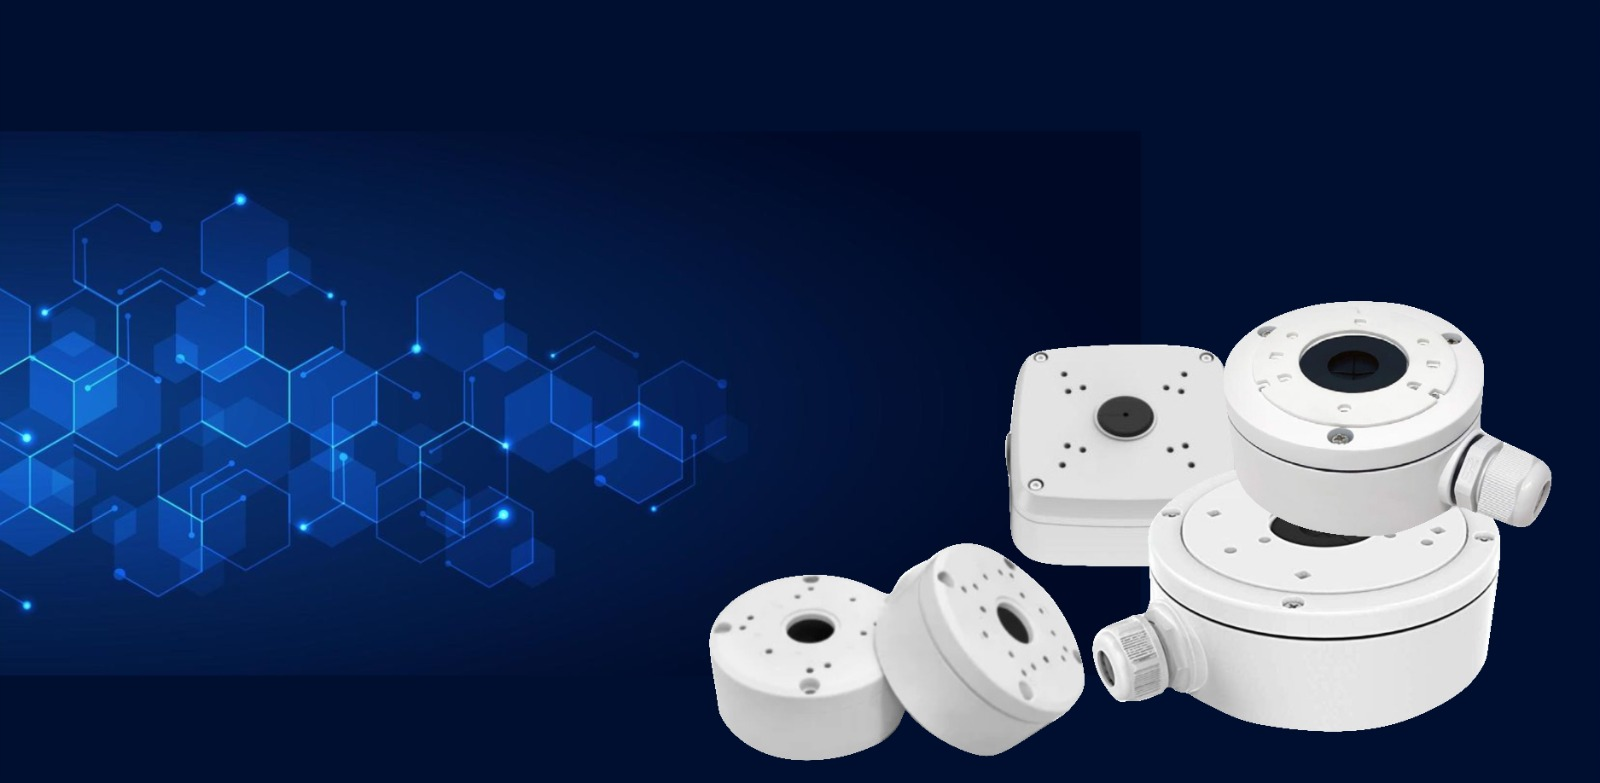
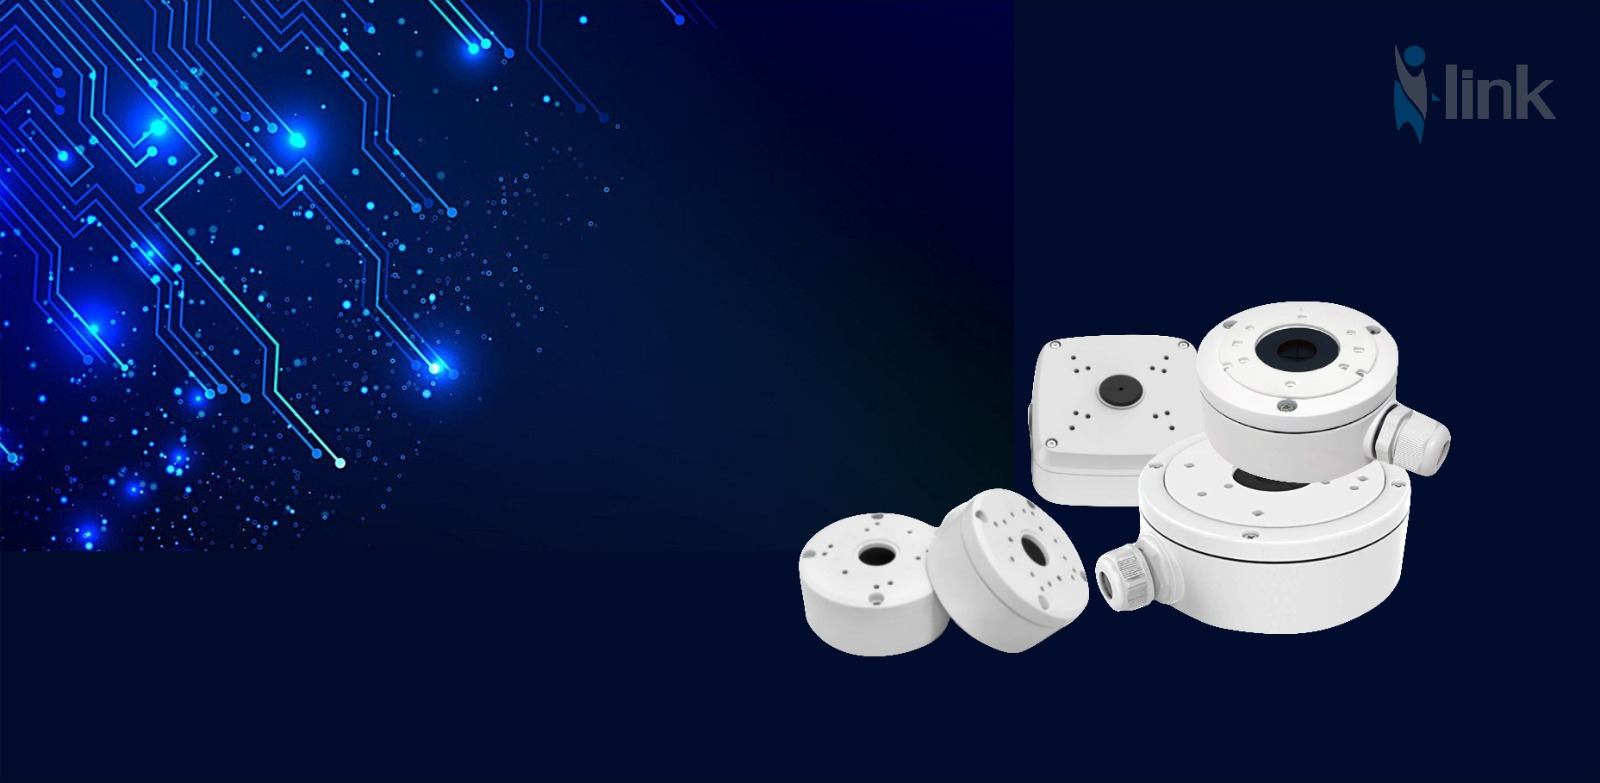
Home section adding images

diff --git a/src/app/component/Silider.tsx b/src/app/component/Silider.tsx
@@ -1,8 +1,11 @@
 "use client";
+
 import { useState } from "react";
 import { motion } from "framer-motion";
 
-// Define the type for our image data
+/* ================================
+   Types
+================================ */
 interface ImageItem {
   id: number;
   title: string;
@@ -13,7 +16,9 @@ interface ImageItem {
   large?: boolean;
 }
 
-// Single Image Card Component
+/* ================================
+   Image Card Component
+================================ */
 const ImageCard = ({ item }: { item: ImageItem }) => {
   const [isHovered, setIsHovered] = useState(false);
 
@@ -30,61 +35,60 @@ const ImageCard = ({ item }: { item: ImageItem }) => {
           onMouseEnter={() => setIsHovered(true)}
           onMouseLeave={() => setIsHovered(false)}
         >
-          {/* Main Image */}
-          <div className="relative w-full h-full">
-            <motion.img
-              src={item.imageUrl}
-              alt={item.title}
-              className="w-full h-full object-cover"
-              whileHover={{ scale: 1.05 }}
-              transition={{ duration: 0.7 }}
-            />
+          {/* Image */}
+          <motion.img
+            src={item.imageUrl}
+            alt={item.title}
+            className="w-full h-full object-cover"
+            whileHover={{ scale: 1.05 }}
+            transition={{ duration: 0.7 }}
+          />
 
-            {/* Gradient Overlay */}
-            <div className="absolute inset-0 bg-gradient-to-t from-black/70 via-black/10 to-transparent" />
+          {/* Gradient Overlay */}
+          <div className="absolute inset-0 bg-gradient-to-t from-black/70 via-black/10 to-transparent" />
 
-            {/* Content Overlay */}
-            <div className="absolute bottom-0 left-0 right-0 p-4 md:p-5 lg:p-6 text-white">
-              <div className="mb-1">
-                <span className="text-[10px] md:text-xs font-medium tracking-wider uppercase text-white/85">
-                  {item.tag}
-                </span>
-              </div>
+          {/* Content */}
+          <div className="absolute bottom-0 left-0 right-0 p-4 md:p-5 lg:p-6 text-white">
+            <span className="text-[10px] md:text-xs font-medium tracking-wider uppercase text-white/85">
+              {item.tag}
+            </span>
 
-              <h3 className="text-lg md:text-xl lg:text-2xl font-semibold mb-1 leading-snug max-w-xl">
-                {item.title}
-              </h3>
+            <h3 className="text-lg md:text-xl lg:text-2xl font-semibold mt-1 mb-1">
+              {item.title}
+            </h3>
 
-              <p className="text-white/85 text-xs md:text-sm font-light max-w-md mb-2">
-                {item.subtitle}
-              </p>
+            <p className="text-white/85 text-xs md:text-sm font-light mb-2 max-w-md">
+              {item.subtitle}
+            </p>
 
-              {/* Learn More */}
-              <motion.div
-                initial={{ opacity: 0, y: 10 }}
-                animate={{ opacity: isHovered ? 1 : 0, y: isHovered ? 0 : 10 }}
-                transition={{ duration: 0.3 }}
-              >
-                <span className="inline-flex items-center gap-1.5 text-white font-medium text-xs md:text-sm">
-                  Learn More
-                  <motion.svg
-                    className="w-3.5 h-3.5 md:w-4 md:h-4"
-                    fill="none"
-                    stroke="currentColor"
-                    viewBox="0 0 24 24"
-                    animate={{ x: isHovered ? 5 : 0 }}
-                    transition={{ duration: 0.3 }}
-                  >
-                    <path
-                      strokeLinecap="round"
-                      strokeLinejoin="round"
-                      strokeWidth={2}
-                      d="M17 8l4 4m0 0l-4 4m4-4H3"
-                    />
-                  </motion.svg>
-                </span>
-              </motion.div>
-            </div>
+            {/* Learn More */}
+            <motion.div
+              initial={{ opacity: 0, y: 10 }}
+              animate={{
+                opacity: isHovered ? 1 : 0,
+                y: isHovered ? 0 : 10,
+              }}
+              transition={{ duration: 0.3 }}
+            >
+              <span className="inline-flex items-center gap-1.5 text-white font-medium text-xs md:text-sm">
+                Learn More
+                <motion.svg
+                  className="w-4 h-4"
+                  fill="none"
+                  stroke="currentColor"
+                  viewBox="0 0 24 24"
+                  animate={{ x: isHovered ? 5 : 0 }}
+                  transition={{ duration: 0.3 }}
+                >
+                  <path
+                    strokeLinecap="round"
+                    strokeLinejoin="round"
+                    strokeWidth={2}
+                    d="M17 8l4 4m0 0l-4 4m4-4H3"
+                  />
+                </motion.svg>
+              </span>
+            </motion.div>
           </div>
 
           {/* Hover Overlay */}
@@ -100,54 +104,55 @@ const ImageCard = ({ item }: { item: ImageItem }) => {
   );
 };
 
-// Main Page Component
+/* ================================
+   Main Slider Component
+================================ */
 export default function Slider() {
-  const imageData: ImageItem[] = [
-    {
+  const imageData: Record<string, ImageItem> = {
+    cctvInstallation: {
       id: 1,
       title: "CCTV Installation",
       subtitle:
         "Professional CCTV system installation for residential and commercial properties with high-definition cameras and advanced monitoring.",
       tag: "SECURITY",
-      imageUrl:
-        "https://images.unsplash.com/photo-1558618666-fcd25c85cd64?w=500&h=250&fit=crop&auto=format",
+      imageUrl: "/sa.jpeg",
       link: "/elv-solution/cctv-installation",
       large: true,
     },
-    {
+
+    cctvMaintenance: {
       id: 2,
       title: "CCTV Maintenance",
       subtitle:
         "Regular maintenance and support services to keep your CCTV systems running at peak performance with timely inspections and repairs.",
       tag: "MAINTENANCE",
-      imageUrl:
-        "https://images.unsplash.com/photo-1558494949-ef010cbdcc31?w=500&h=250&fit=crop&auto=format",
+      imageUrl: "/sa3.jpeg",
       link: "/elv-solution/cctv-maintenance",
       large: false,
     },
-    {
+
+    structuredCabling: {
       id: 3,
       title: "Structured Cabling",
       subtitle:
         "High-quality structured cabling solutions for modern network infrastructure, including Cat6, Cat6A, and fiber optic installations.",
       tag: "NETWORK",
-      imageUrl:
-        "https://images.unsplash.com/photo-1558494949-ef010cbdcc31?w=500&h=250&fit=crop&auto=format",
+      imageUrl: "/sa4.jpeg",
       link: "/elv-solution/structure-cabling",
       large: false,
     },
-    {
+
+    pabxSystems: {
       id: 4,
       title: "PABX Systems",
       subtitle:
         "Professional Private Automatic Branch Exchange systems for efficient and scalable business communications with advanced features.",
       tag: "COMMUNICATION",
-      imageUrl:
-        "https://images.unsplash.com/photo-1587825140708-dfaf72ae4b04?w=500&h=250&fit=crop&auto=format",
+      imageUrl: "/sa1.jpeg",
       link: "/elv-solution/pabx",
       large: true,
     },
-  ];
+  };
 
   return (
     <main className="min-h-screen bg-white py-8 md:py-12 lg:py-16">
@@ -158,23 +163,24 @@ export default function Slider() {
           whileInView={{ opacity: 1, y: 0 }}
           viewport={{ once: true }}
           transition={{ duration: 0.6 }}
-          className="text-center mb-4 md:mb-6 lg:mb-8"
+          className="text-center mb-6 lg:mb-8"
         >
           <h1 className="text-xl md:text-2xl lg:text-3xl font-semibold text-gray-900 mb-2">
-            What's New
+            What’s New
           </h1>
+
           <motion.div
             initial={{ width: 0 }}
             whileInView={{ width: 48 }}
             viewport={{ once: true }}
             transition={{ duration: 0.8, delay: 0.2 }}
             className="h-1 bg-blue-900 mx-auto"
-          ></motion.div>
+          />
         </motion.header>
 
-        {/* Image Grid - asymmetric layout */}
+        {/* Grid */}
         <div className="grid grid-cols-1 lg:grid-cols-3 gap-2 md:gap-3 lg:gap-4">
-          {imageData.map((item) => (
+          {Object.values(imageData).map((item) => (
             <div
               key={item.id}
               className={item.large ? "lg:col-span-2" : "lg:col-span-1"}

diff --git a/src/app/component/Link.tsx b/src/app/component/Link.tsx
@@ -17,7 +17,7 @@ export default function Link() {
   const images = [
     {
       id: 1,
-      src: "/images/elv-tech-10.jpg",
+      src: "/images/link.png",
       alt: "ELV Technology Solutions",
     },
   ];
@@ -66,7 +66,7 @@ export default function Link() {
                 delay: 0.4, // Staggered animation
               }}
               viewport={{ once: true }}
-              className="relative overflow-hidden  shadow-lg"
+              className="relative overflow-hidden object-contain  shadow-lg"
             >
               <Image
                 src={images[0].src}

diff --git a/src/app/component/Navbar.tsx b/src/app/component/Navbar.tsx
@@ -45,7 +45,7 @@ const CUSTOM_SOLUTIONS = [
   { name: "Pop-up Box", href: "/customised-solution/custom-pop-up-box" },
   { name: "Projector Stand", href: "/customised-solution/custom-projector-stand" },
   { name: "Kiosk Stand", href: "/customised-solution/kiosk-stand-maker" },
-  { name: "View All Customized Solutions", href: "/customized-solution", isViewAll: true },
+  { name: "View All Customized Solutions", href: "/customised-solution", isViewAll: true },
 ];
 
 const ELV_SOLUTIONS = [
